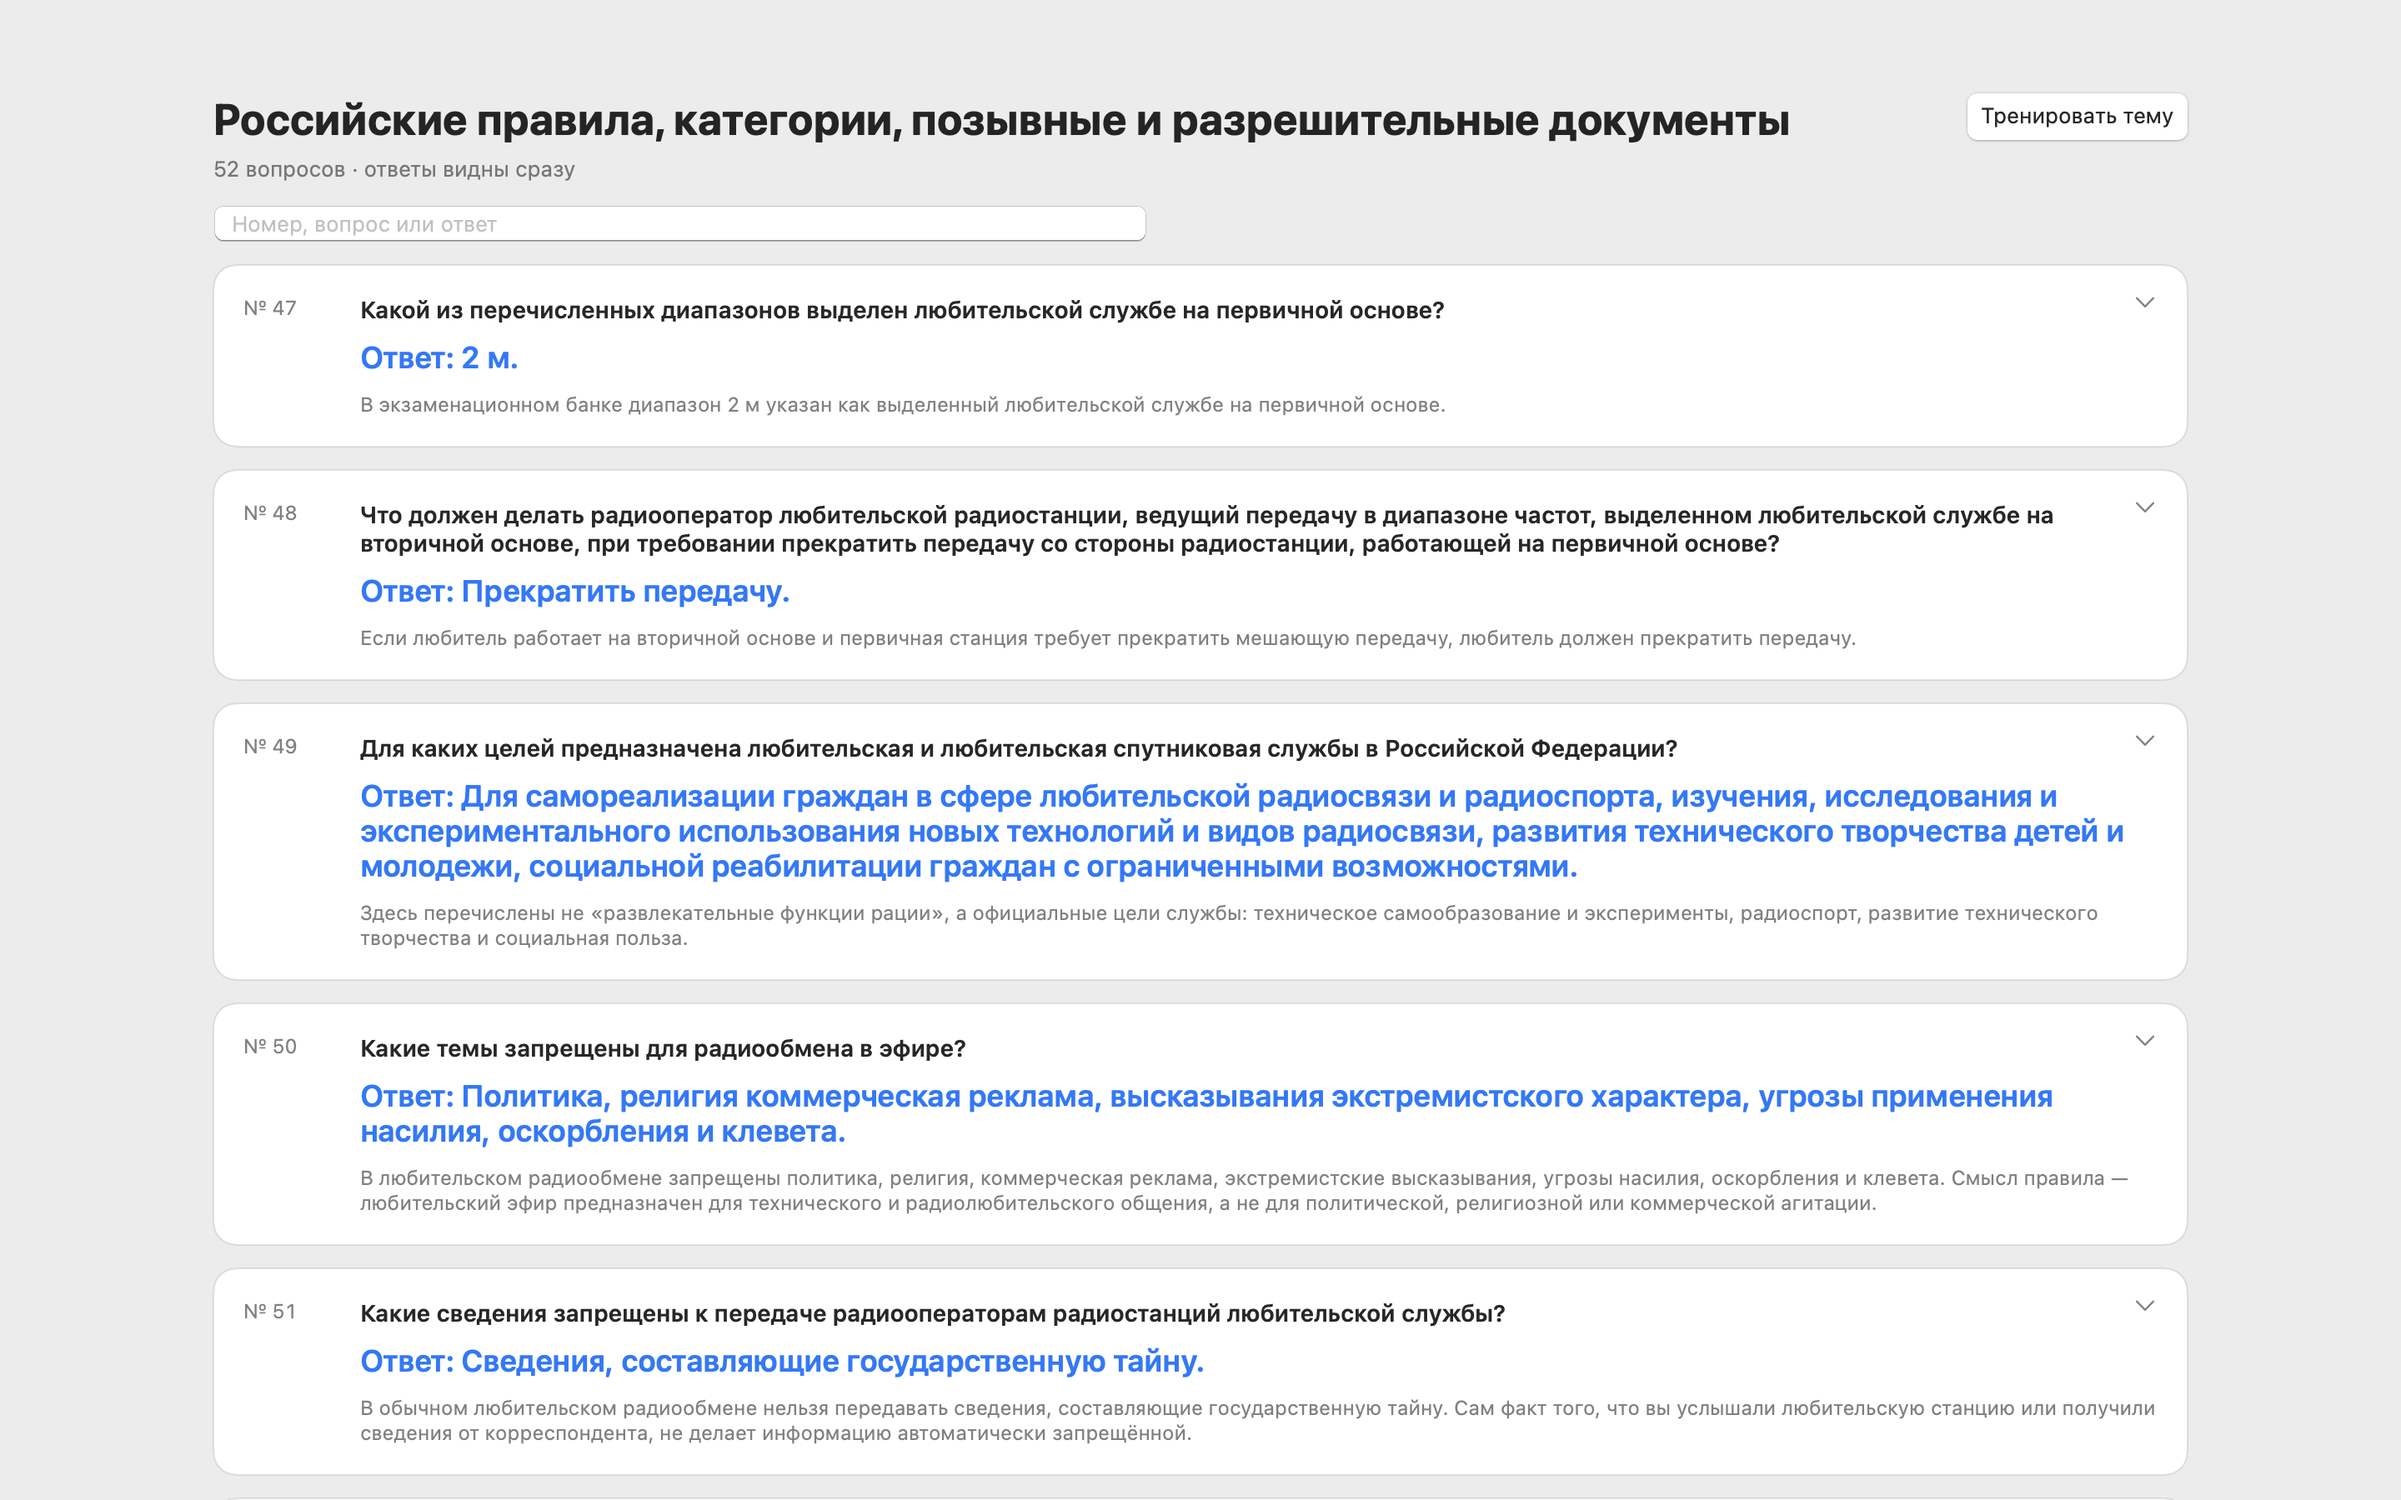
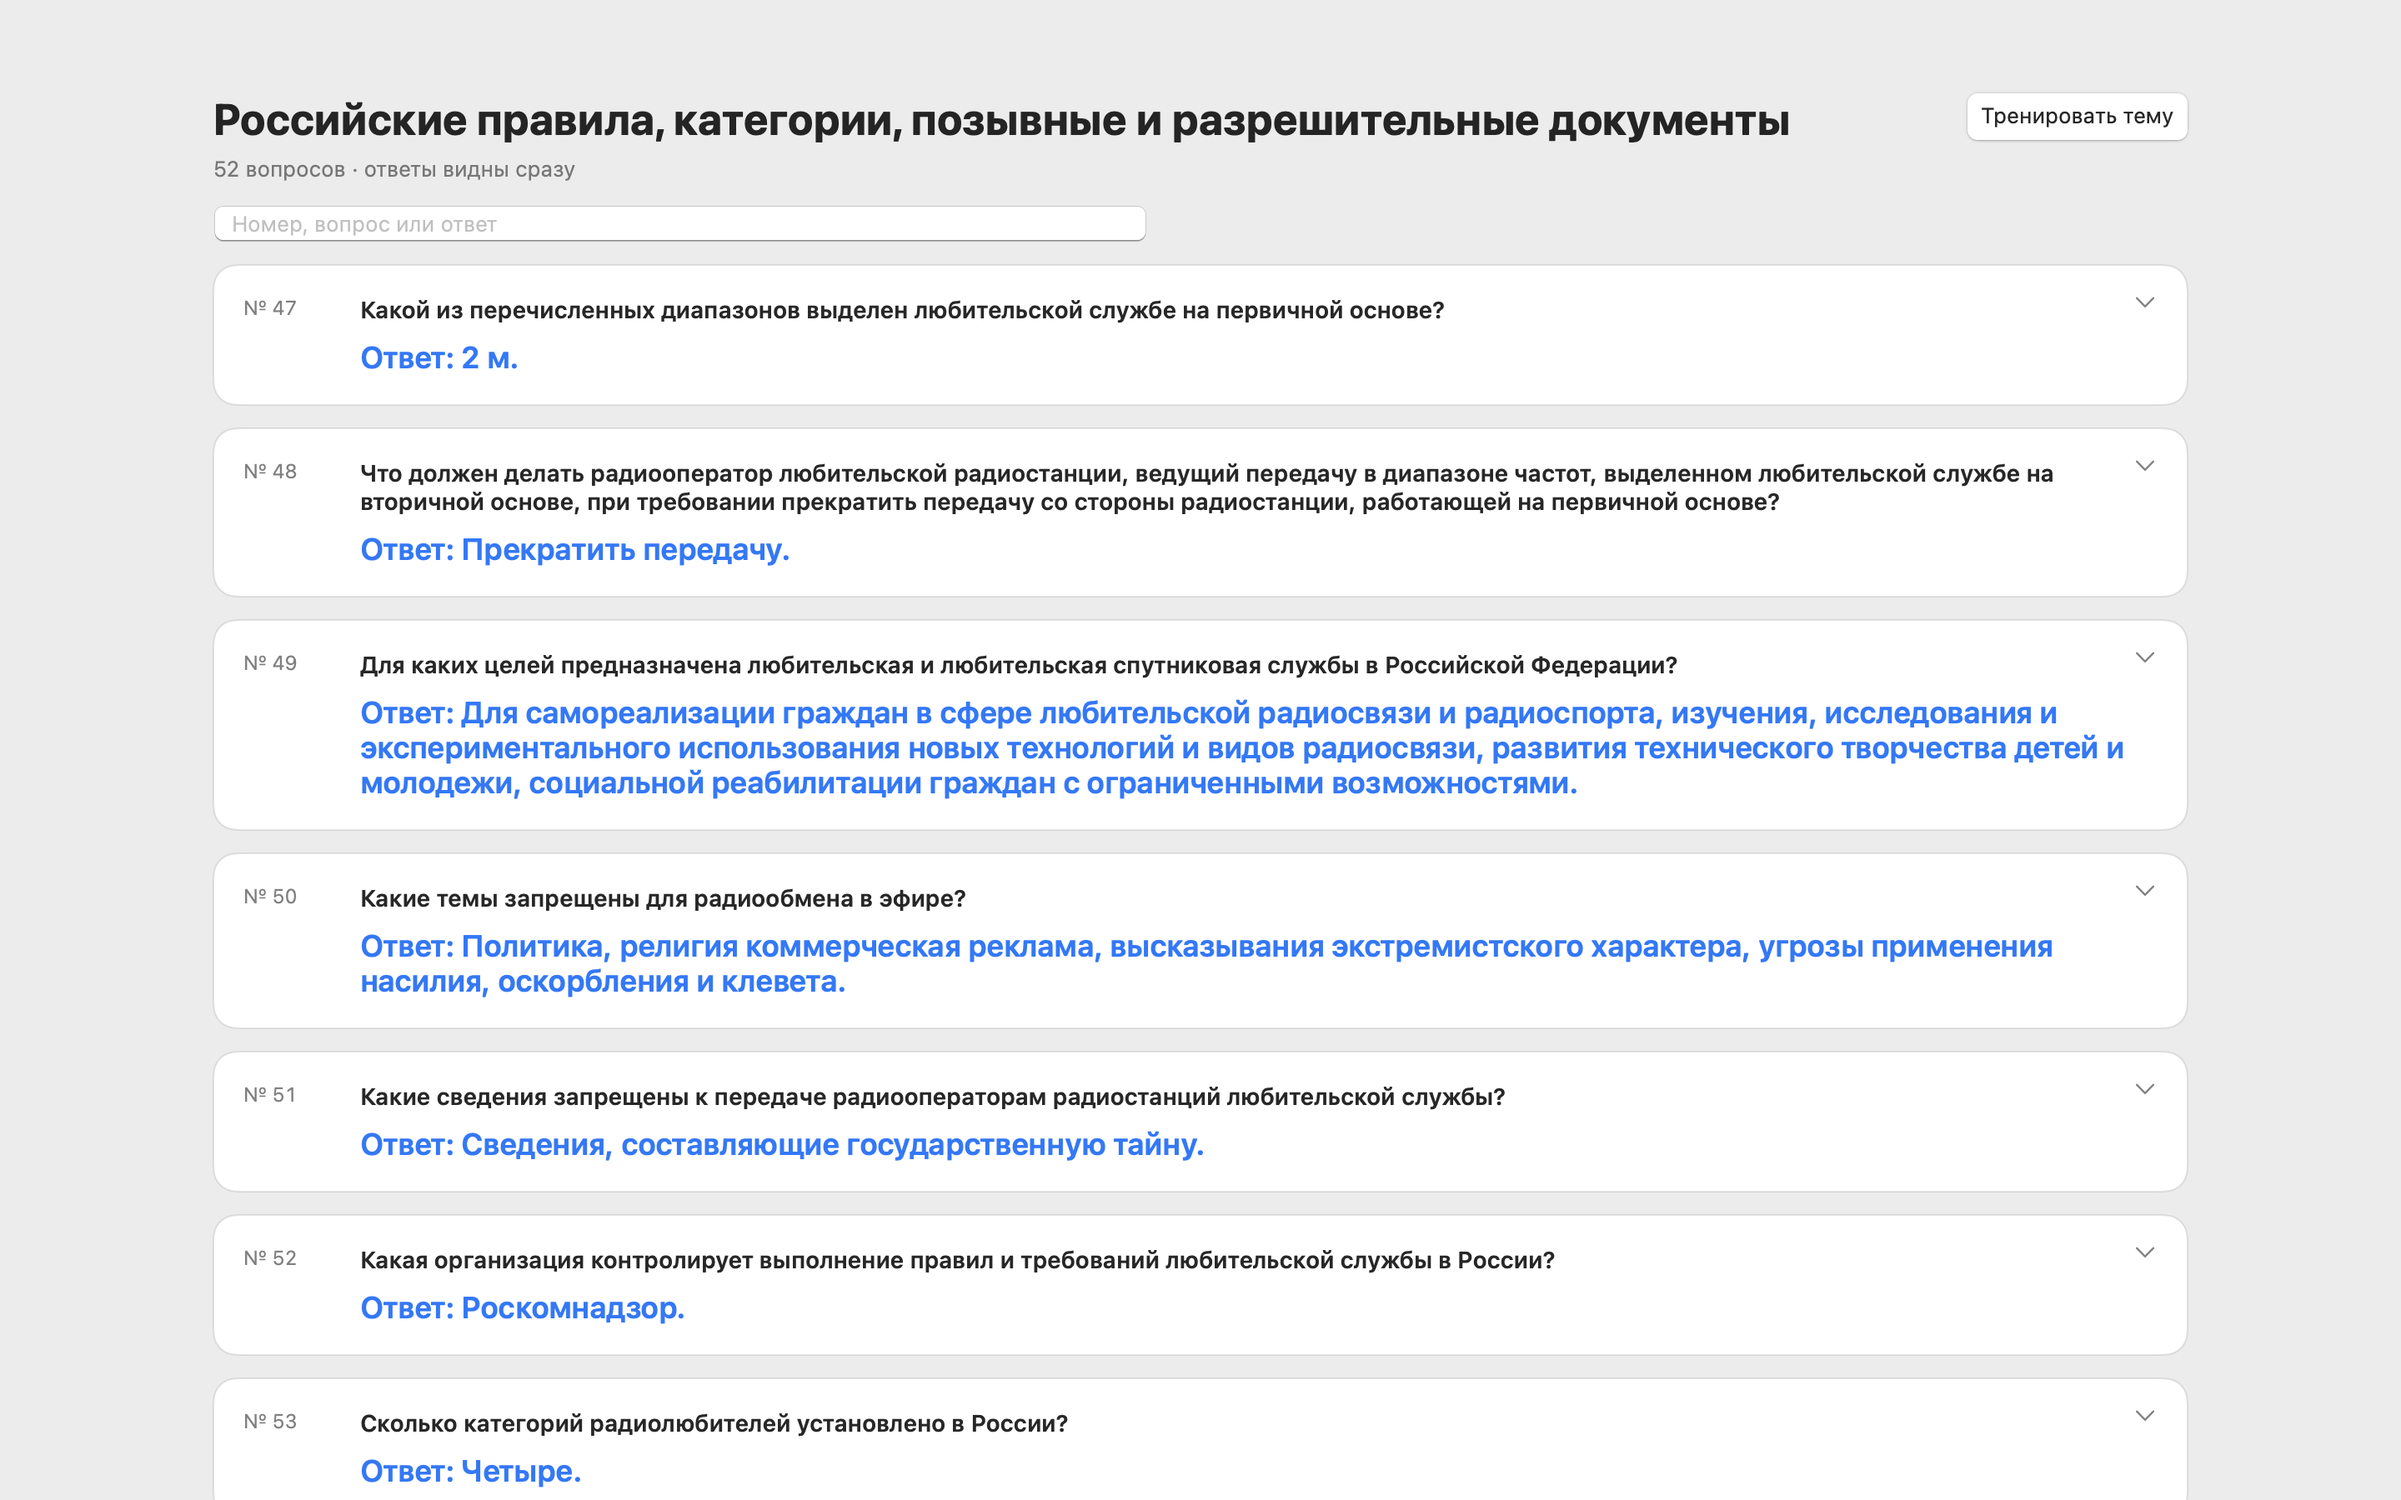
Fix final content and UI cleanup issues

diff --git a/Tests/RunTests.swift b/Tests/RunTests.swift
@@ -634,6 +634,14 @@ struct CoreTestRunner {
             }
         }))
 
+        tests.append(("feeder memory hints match questions 181 and 182", {
+            let questions = try AppStore.decoder.decode([Question].self, from: Data(contentsOf: content.appendingPathComponent("questions.json")))
+            let q181 = questions.first(where: { $0.examNumber == 181 })
+            let q182 = questions.first(where: { $0.examNumber == 182 })
+            try expect(q181?.memoryHint == "Фидер должен быть электрической линией: коаксиальным кабелем или двухпроводной линией.", "question 181 retained unrelated dipole hint")
+            try expect(q182?.memoryHint == "Экранированный коаксиальный кабель можно вести у конструкций и, с подходящей оболочкой, под землёй.", "question 182 retained unrelated vertical hint")
+        }))
+
         tests.append(("all glossary references resolve", {
             let questions = try AppStore.decoder.decode([Question].self, from: Data(contentsOf: content.appendingPathComponent("questions.json")))
             let glossary = try AppStore.decoder.decode([GlossaryEntry].self, from: Data(contentsOf: content.appendingPathComponent("glossary.json")))

diff --git a/Package.swift b/Package.swift
@@ -1,5 +1,25 @@
 // swift-tools-version: 5.10
 import PackageDescription
+import Foundation
+
+let packageRoot = URL(fileURLWithPath: #filePath).deletingLastPathComponent()
+var excludedPaths = [
+    ".github",
+    ".gitignore",
+    "ContentAuthored",
+    "ContentOverrides",
+    "ContentRaw",
+    "ExamSources",
+    "HAMTrainer3.xcodeproj",
+    "HAMTrainer/Info.plist",
+    "README.md",
+    "Tests",
+    "Tools",
+    "docs"
+]
+if FileManager.default.fileExists(atPath: packageRoot.appendingPathComponent("Build").path) {
+    excludedPaths.append("Build")
+}
 
 let package = Package(
     name: "HAMTrainer3",
@@ -9,21 +29,7 @@ let package = Package(
         .executableTarget(
             name: "HAMTrainer3",
             path: ".",
-            exclude: [
-                ".github",
-                ".gitignore",
-                "Build",
-                "ContentAuthored",
-                "ContentOverrides",
-                "ContentRaw",
-                "ExamSources",
-                "HAMTrainer3.xcodeproj",
-                "HAMTrainer/Info.plist",
-                "README.md",
-                "Tests",
-                "Tools",
-                "docs"
-            ],
+            exclude: excludedPaths,
             sources: ["HAMTrainer"],
             resources: [.copy("Content")]
         )

diff --git a/HAMTrainer/MainView.swift b/HAMTrainer/MainView.swift
@@ -312,12 +312,12 @@ struct TopicQuestionReferenceRow: View {
                 .font(.system(size: store.settings.readingSize.answerFontSize, weight: .semibold))
                 .foregroundStyle(.tint)
                 .padding(.leading, 70)
-            if !question.explanationShort.isEmpty {
-                Text(question.explanationShort).font(.callout).foregroundStyle(.secondary).padding(.leading, 70)
-            }
             if expanded {
                 Divider().padding(.leading, 70)
                 VStack(alignment: .leading, spacing: 14) {
+                    if !question.explanationShort.isEmpty {
+                        Text(question.explanationShort).font(.callout).foregroundStyle(.secondary)
+                    }
                     FigureView(asset: question.figureAsset)
                     if question.teachingDiagramAsset != question.figureAsset { FigureView(asset: question.teachingDiagramAsset) }
                     ReferenceDetailsView(question: question, includeOptions: true)

diff --git a/Tools/audit_content.py b/Tools/audit_content.py
@@ -15,7 +15,7 @@ ROOT = Path(__file__).resolve().parents[1]
 CONTENT = ROOT / "Content"
 DOCS = ROOT / "docs"
 AUTHORED_PATH = ROOT / "ContentAuthored" / "third-category-218-explanations.json"
[2 lines of base64/hex data omitted]
 GLOSSARY_AUTHORED_PATH = ROOT / "ContentAuthored" / "built-in-glossary-176.json"
[1 lines of base64/hex data omitted]
 EXPECTED_SOURCE_HASHES = {

diff --git a/Tools/validate_content.py b/Tools/validate_content.py
@@ -11,7 +11,7 @@ from category_profile import BANK_COUNT, EXPECTED_NUMBERS
 
 ROOT = Path(__file__).resolve().parents[1]
 AUTHORED_PATH = ROOT / "ContentAuthored" / "third-category-218-explanations.json"
[2 lines of base64/hex data omitted]
 GLOSSARY_AUTHORED_PATH = ROOT / "ContentAuthored" / "built-in-glossary-176.json"
[1 lines of base64/hex data omitted]
 

diff --git a/Tools/build_content.py b/Tools/build_content.py
@@ -222,7 +222,7 @@ TEACHING_DIAGRAMS = {
 }
 
 AUTHORED_PATH = ROOT / "ContentAuthored" / "third-category-218-explanations.json"
[2 lines of base64/hex data omitted]
 GLOSSARY_AUTHORED_PATH = ROOT / "ContentAuthored" / "built-in-glossary-176.json"
[1 lines of base64/hex data omitted]
 AUTHORED_FIELDS = {

diff --git a/docs/final-visual-qa.md b/docs/final-visual-qa.md
@@ -21,6 +21,8 @@ Release-сборка `Build/HAM Trainer 3.app` отрисована встрое
 | `15`–`21` | runtime-вопросы 22, 23, 32, 173, 176, 177 и 180 с фигурами и вариантами |
 | `22-glossary-superheterodyne-1000-light-large.png` | карточка термина |
 
+В финальном корректирующем проходе повторно созданы только `08-topic-reference-1440-light-large.png` и `09-topic-expanded-1440-light-large.png`: collapsed-строки стали заметно компактнее и показывают только номер, вопрос и официальный ответ; объяснение остаётся доступно после раскрытия.
+
 Проверено: нет чёрных полей в прямых снимках, горизонтальной прокрутки и обрезанного русского текста в основных сценариях; длинные варианты переносятся; изображения читаемы и не содержат ответа; варианты вопросов 23 и 32 не содержат OCR-текста таблиц. Для каждого figure-question снимок показывает формулировку, изображение и варианты.
 
 Снимки находятся в `docs/screenshots/final-qa/` и являются визуальным доказательством, а не заменой сценарных тестов.

diff --git a/docs/testing.md b/docs/testing.md
@@ -2,7 +2,7 @@
 
 `Tools/run_tests.sh` compiles production models, persistence, and scheduler code into a native runner with no external test dependency.
 
-The 54 checks cover:
+The 55 checks cover:
 
 - exact 5/10/20/40/80 distances, failures, reveal, lapse, restart persistence, eligibility, reinsertion gap, and appearance cap;
 - safe Back/Forward history and dynamic Smart Study refresh;
@@ -12,7 +12,8 @@ The 54 checks cover:
 - notes, bookmarks, concepts, personal glossary, backup round trip, and rejection of category-2 backups;
 - exact 218-number bank, source provenance, 127 referenced glossary entries, topic reference behavior, 11 required question-to-figure mappings, and 654 wrong-option explanations;
 - clean source-checked option text for figure questions 23 and 32.
+- feeder-specific memory hints for questions 181 and 182.
 
 Content checks independently require 218 authored records, 0 fallback, 215 exact + 3 explicit manual answer matches, 0 fuzzy matches, valid source PDF hashes, and a complete answer-free figure manifest.
 
-Latest local result: **54/54 tests**, **218 questions**, **127 runtime terms**, **4 shared exam assets for 11 questions**, **0 fuzzy matches**. Release build, ad-hoc signature, bundle identity, and screenshots are checked separately.
+Latest local result: **55/55 tests**, **218 questions**, **127 runtime terms**, **4 shared exam assets for 11 questions**, **0 fuzzy matches**. Release build, ad-hoc signature, bundle identity, and screenshots are checked separately.

diff --git a/ContentAuthored/README.md b/ContentAuthored/README.md
@@ -2,7 +2,7 @@
 
 Production content is assembled from two checksum-verified authored sources:
 
[3 lines of base64/hex data omitted]
 
 The question file covers only `1–34`, `47–98`, `100–135`, `150–226`, `387–391`, and `409–422`. Each record contains concise, beginner, reasoning, three wrong-option explanations, memory hint, glossary labels, and optional figure/teaching-diagram metadata.

diff --git a/ContentOverrides/README.md b/ContentOverrides/README.md
@@ -1,0 +1,7 @@
+# Source-guide overrides
+
+`question-overrides.json` is consumed by `Tools/import_questions.py` while it parses the preserved larger source guide, before `CategoryProfile` filters the production bank to 218 questions.
+
+Overrides 36, 233, and 359 are outside the HAM Trainer 3 runtime set, but they are intentionally retained: each resolves an otherwise non-exact answer match in that larger reproducible import. Removing them would make a full source import fail before the category-3 subset is built.
+
+Runtime-relevant overrides remain limited to documented OCR cleanup or source-checked answer resolutions.

diff --git a/docs/content-audit.md b/docs/content-audit.md
@@ -9,7 +9,7 @@ Generated: reproducible
 - Fallback-generated educational records: **0**.
 - Unresolved wrong-option mappings: **0**.
 - Unresolved glossary mappings: **0**.
[2 lines of base64/hex data omitted]
 
 “Authored” means an exact record in the immutable checksum-verified source file. The audit does not assign an automated educational-quality score.
 
